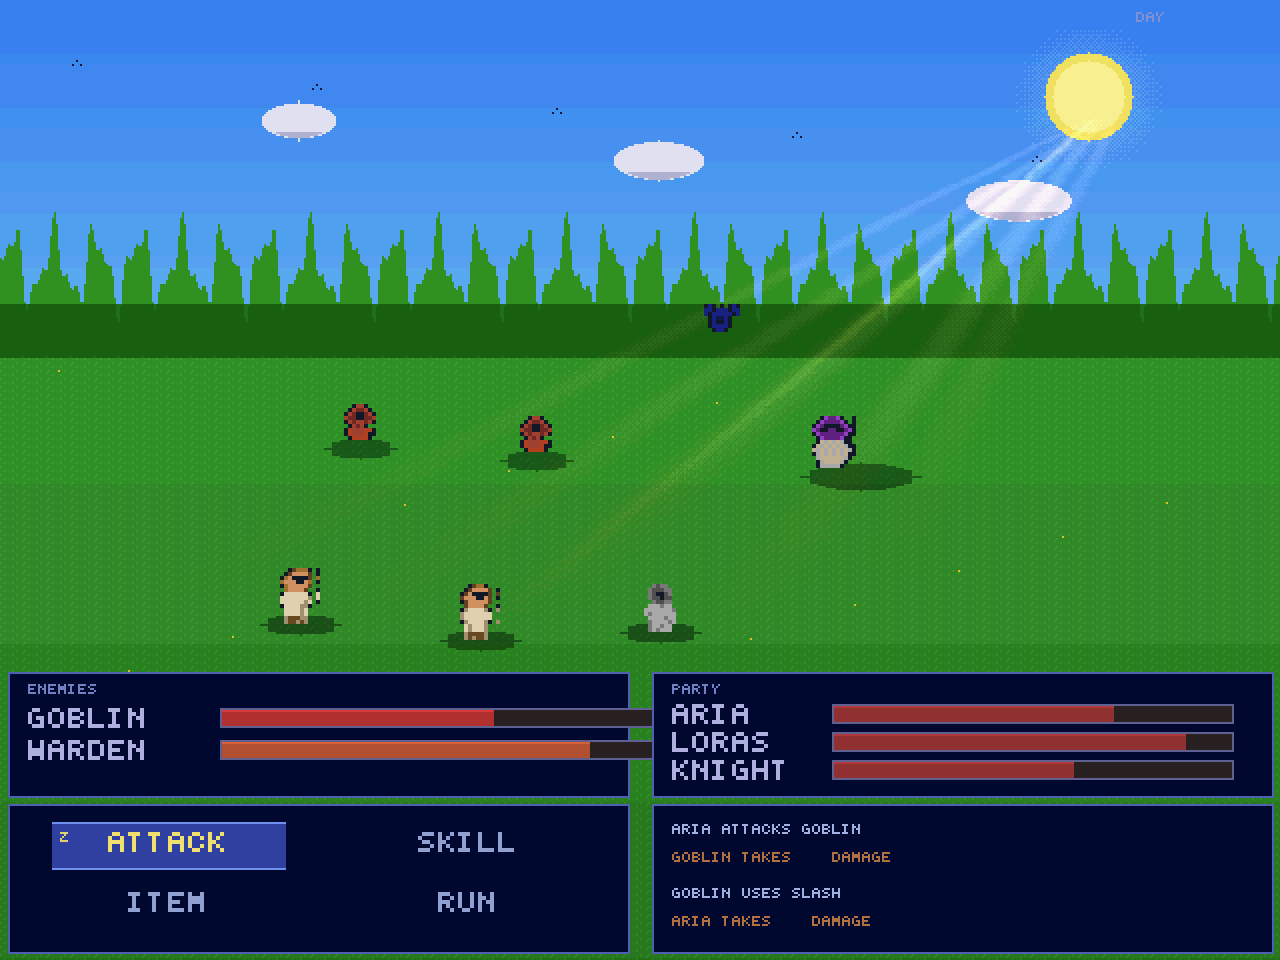
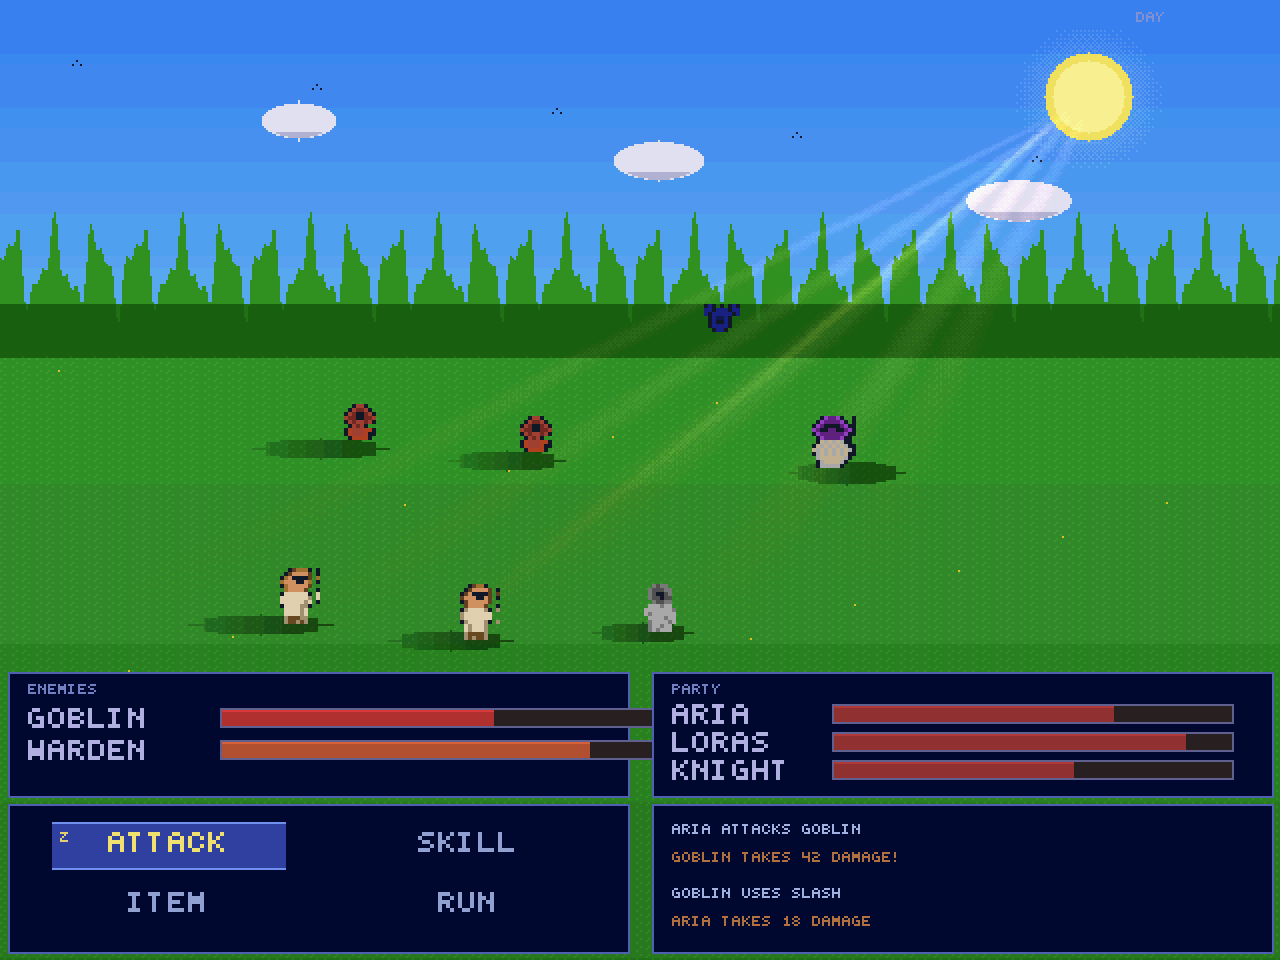
Rays originate at the light centre; shadows cast by light direction
Light sources, their god-rays, and every cast shadow now share one set
of coordinates (MOON_CX/CY/R, SUN_CX/CY/R). Previously the day sun disc
sat at (W-96,48) while sun_rays emanated from (W-80,50) — the shafts
started 16px off the sun. Both the disc art and the ray origin now read
from the constants, so rays fan out from the exact centre of the sun/moon.

New cast_shadow() replaces the straight-down blob in the battle and boss
scenes: it throws each figure's shadow in the ground direction opposite
the key light, elongating with the figure's height and with how far the
figure sits to the side of the light, and fading into a soft penumbra at
the tip. At night (moon upper-left) shadows fall right; by day (sun
upper-right) they fall left — matching the rays. Top-down overworld
scenes keep the overhead blob shadow.

https://claude.ai/code/session_017BM3r68cRygWXFo5sjef42

diff --git a/examples/n64_demos/riverdale_saga_rpg.c b/examples/n64_demos/riverdale_saga_rpg.c
@@ -21,6 +21,16 @@
 #define H 480
 #define TS 24  /* tile size */
 
+/* ── Key-light positions for the battle/boss scenes ──
+ * The disc art (moon/sun) and the god-rays and the cast shadows all read
+ * from these so the light source, its rays, and every shadow stay in sync. */
+#define MOON_CX 96
+#define MOON_CY 56
+#define MOON_R  28
+#define SUN_CX  (W-96)
+#define SUN_CY  48
+#define SUN_R   22
+
 /* RGBA5551 color — R,G,B each 0-31 */
 #define C(r,g,b) ((uint16_t)(((r)<<11)|((g)<<6)|((b)<<1)|1))
 
@@ -590,6 +600,42 @@ static void gshadow(int cx, int cy, int rw, int rh) {
     }
 }
 
+/* Directional cast shadow: throws a figure's blob shadow onto the ground in
+ * the direction *opposite* a key light at (lx,ly). The shadow is anchored at
+ * the feet (cx,cy) and stretched/offset away from the light; its length grows
+ * as the light gets lower/further to the side (fig_h = figure pixel height).
+ * The far end fades into a soft penumbra. */
+static void cast_shadow(int cx, int cy, int rw, int rh, int lx, int ly, int fig_h) {
+    int hdx = cx - lx;                          /* + : light is to the left  */
+    int vdy = cy - ly; if (vdy < 8) vdy = 8;    /* light sits above the figure */
+    int tip = hdx * fig_h / vdy;                /* horizontal throw of the tip */
+    int maxtip = rw * 5;
+    if (tip >  maxtip) tip =  maxtip;
+    if (tip < -maxtip) tip = -maxtip;
+    int s    = (tip >= 0) ? 1 : -1;
+    int atip = tip * s;
+    int ecx  = cx + tip / 2;                    /* ellipse centre (mid-throw) */
+    int erw  = rw + atip / 2;                   /* elongated along the throw  */
+    int reach = atip + rw; if (reach < 1) reach = 1;
+    for (int dy = -rh; dy <= rh; dy++) {
+        int y = cy + dy;
+        if ((unsigned)y >= H) continue;
+        int hw = erw * isqrt(rh*rh - dy*dy) / (rh > 0 ? rh : 1);
+        for (int x = ecx - hw; x <= ecx + hw; x++) {
+            if ((unsigned)x >= W) continue;
+            int along = (x - cx) * s;           /* 0 at feet → reach at tip   */
+            if (along < 0) along = 0;
+            int m = 9 + along * 6 / reach;      /* 9 (dark) → 15 (faded out)  */
+            if (m > 15) m = 15;
+            uint16_t px = get(x, y);
+            int r = ((px >> 11) & 0x1F) * m / 16;
+            int g = ((px >>  6) & 0x1F) * m / 16;
+            int b = ((px >>  1) & 0x1F) * m / 16;
+            put(x, y, C(r, g, b));
+        }
+    }
+}
+
 /* ── Lighting ── */
 static void lighten(int x, int y, int dr, int dg, int db) {
     if ((unsigned)x >= W || (unsigned)y >= H) return;
@@ -782,8 +828,8 @@ static void battle_bg_night(int f) {
     }
 
     /* Moon */
-    moon(96, 56, 28);
-    moon_halo(96, 56, 30, 44);
+    moon(MOON_CX, MOON_CY, MOON_R);
+    moon_halo(MOON_CX, MOON_CY, MOON_R+2, MOON_R+16);
 
     /* Far treeline */
     treeline_far(168, C(2,5,2), 24, 3);
@@ -809,18 +855,18 @@ static void battle_bg_day(int f) {
     vgrad(0, 0, W-1, 160, 7,16,30, 12,22,30);
 
     /* Sun */
-    disc(W-96, 48, 22, C(30,28,12));
-    disc(W-96, 48, 18, C(31,30,18));
+    disc(SUN_CX, SUN_CY, SUN_R,   C(30,28,12));
+    disc(SUN_CX, SUN_CY, SUN_R-4, C(31,30,18));
     /* Sun glow */
     for (int dy = -40; dy <= 40; dy++) {
         for (int dx = -40; dx <= 40; dx++) {
             int d2 = dx*dx + dy*dy;
-            if (d2 < 22*22 || d2 > 40*40) continue;
-            int bayer = BAYER4[(48+dy)&3][(W-96+dx)&3];
+            if (d2 < SUN_R*SUN_R || d2 > 40*40) continue;
+            int bayer = BAYER4[(SUN_CY+dy)&3][(SUN_CX+dx)&3];
             int dist = isqrt(d2);
-            int fade = (dist - 22) * 14 / 18;
+            int fade = (dist - SUN_R) * 14 / 18;
             if (bayer > fade + 4)
-                lighten(W-96+dx, 48+dy, 3, 2, 0);
+                lighten(SUN_CX+dx, SUN_CY+dy, 3, 2, 0);
         }
     }
 
@@ -1463,10 +1509,14 @@ static void scene_battle(int f) {
 
     uint16_t rim = is_night ? C(18,22,30) : C(28,26,14);
 
+    /* Key-light position — all shadows are thrown away from this point. */
+    int lcx = is_night ? MOON_CX : SUN_CX;
+    int lcy = is_night ? MOON_CY : SUN_CY;
+
     /* God-rays are cast over the whole field BEFORE the actors so the actors
      * read as lit objects sitting in the light rather than being washed out. */
-    if (is_night) moon_rays(96, 56, 320, f);
-    else          sun_rays (W-80, 50, 320, f);
+    if (is_night) moon_rays(MOON_CX, MOON_CY, 320, f);
+    else          sun_rays (SUN_CX,  SUN_CY,  320, f);
 
     /* ── Enemies: back row, standing on the ground (feet y ≈ 222..236) ── */
     /* Bat hovers above the back row */
@@ -1474,17 +1524,17 @@ static void scene_battle(int f) {
     draw_bat(360, bat_y, f);
 
     /* Goblin A */
-    gshadow(180, 224, 18, 5);
+    cast_shadow(180, 224, 14, 5, lcx, lcy, 20);
     draw_goblin(180, 222);
     if (is_night) blit_rim(180-8, 222-20, A_goblin, 8, 10, 2, rim);
 
     /* Goblin B */
-    gshadow(268, 230, 18, 5);
+    cast_shadow(268, 230, 14, 5, lcx, lcy, 20);
     draw_goblin(268, 228);
     if (is_night) blit_rim(268-8, 228-20, A_goblin, 8, 10, 2, rim);
 
     /* Warden (boss-lite), larger and further back-right */
-    gshadow(430, 238, 30, 7);
+    cast_shadow(430, 236, 22, 6, lcx, lcy, 24);
     blit(430-24, 236-28, A_warden, 12, 14, 2);
     if (is_night) blit_rim(430-24, 236-28, A_warden, 12, 14, 2, rim);
 
@@ -1492,17 +1542,17 @@ static void scene_battle(int f) {
     if (is_night) lightpool(210, 322, 130, 16);
 
     /* Aria */
-    gshadow(150, 312, 20, 5);
+    cast_shadow(150, 312, 16, 5, lcx, lcy, 28);
     blit(150-10, 312-28, A_aria_b, 10, 14, 2);
     if (is_night) blit_rim(150-10, 312-28, A_aria_b, 10, 14, 2, rim);
 
     /* Loras */
-    gshadow(240, 320, 20, 5);
+    cast_shadow(240, 320, 16, 5, lcx, lcy, 28);
     blit(240-10, 320-28, A_loras_b, 10, 14, 2);
     if (is_night) blit_rim(240-10, 320-28, A_loras_b, 10, 14, 2, rim);
 
     /* Knight */
-    gshadow(330, 316, 20, 5);
+    cast_shadow(330, 316, 16, 5, lcx, lcy, 24);
     draw_knight(330, 316);
     if (is_night) blit_rim(330-8, 316-24, A_knight, 8, 12, 2, rim);
 
@@ -1564,14 +1614,14 @@ static void scene_battle(int f) {
 static void scene_boss(int f) {
     /* Night battle bg for boss */
     battle_bg_night(f);
-    moon_rays(96, 56, 300, f);
+    moon_rays(MOON_CX, MOON_CY, 300, f);
 
     /* Boss warden — large, centered, standing on the ground.
      * A_warden has a blank trailing row, so its visible feet are ~4px above by;
      * the shadow + light pool are anchored to the visible feet, not the cell. */
     int bx = W/2, by = 230;
     lightpool(bx, by-6, 110, 16);
-    gshadow(bx, by-4, 44, 8);
+    cast_shadow(bx, by-4, 40, 8, MOON_CX, MOON_CY, 52);
     blit(bx-48, by-56, A_warden, 12, 14, 4);
 
     uint16_t boss_rim = C(20,24,30);
@@ -1604,15 +1654,15 @@ static void scene_boss(int f) {
 
     /* Party — front row, on the ground (feet y ≈ 312..320) */
     lightpool(210, 322, 130, 16);
-    gshadow(150, 312, 20, 5);
+    cast_shadow(150, 312, 16, 5, MOON_CX, MOON_CY, 28);
     blit(150-10, 312-28, A_aria_b, 10, 14, 2);
     blit_rim(150-10, 312-28, A_aria_b, 10, 14, 2, boss_rim);
 
-    gshadow(240, 320, 20, 5);
+    cast_shadow(240, 320, 16, 5, MOON_CX, MOON_CY, 28);
     blit(240-10, 320-28, A_loras_b, 10, 14, 2);
     blit_rim(240-10, 320-28, A_loras_b, 10, 14, 2, boss_rim);
 
-    gshadow(330, 316, 20, 5);
+    cast_shadow(330, 316, 16, 5, MOON_CX, MOON_CY, 24);
     draw_knight(330, 316);
     blit_rim(330-8, 316-24, A_knight, 8, 12, 2, boss_rim);
 
